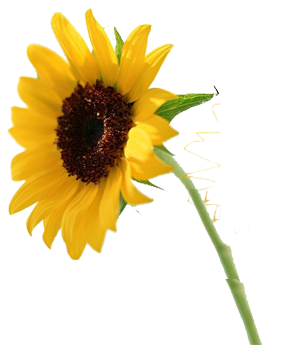
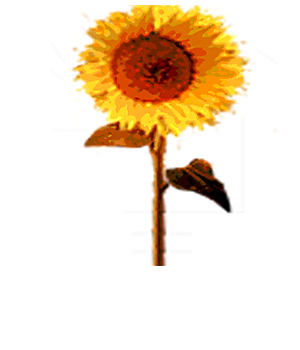
correciones finales

diff --git a/css/styles.css b/css/styles.css
@@ -1,3 +1,7 @@
+h1,h3{
+    color: #F42376;
+    text-align: center;
+}
 #body-container{
     width: 800px;
     height: 649px;
@@ -170,7 +174,8 @@ img#placeholder{
 #girasoles,
 #maceteros{
     width: 300px;
-    overflow: hidden;
+    height: 200px;
+    overflow: scroll;
     background: #FFF;
     border: 3px solid #FF187A;
 }
@@ -219,8 +224,34 @@ img#placeholder{
     margin: 0 auto;
     background: #FFF;
 }
+#gallery-inscritos ul li{
+    list-style: none;
+    text-align: center;
+}
 #gallery-inscritos a{
     color: #000;
     font-weight: lighter;
     text-decoration: none;
+}
+#detalle-florero{
+    width: 600px;
+    height: 600px;
+    margin: 0 auto;
+    background: #FFF;
+    position: relative;
+    top: 25px;
+}
+#datos-aviso-bottom{
+    text-align: center;
+}
+ul.gal-items{
+    overflow: hidden;
+}
+ul.gal-items li{
+    list-style: none;
+    text-align: center;
+    width: 100px;
+    height: 160px;
+    padding: 10px;
+    float: left;
 }

diff --git a/application/views/galeria.php b/application/views/galeria.php
@@ -1,5 +1,6 @@
       <div id="landing-galeria">
           <div id="gallery-inscritos">
+            <h3>Vota por tu florero favorito!</h3>
             <?php
               $galeria = array();
               foreach ($result as $row)
@@ -19,6 +20,7 @@
               $count = 1;
               $counttab = 1;
               //shuffle($galeria);
+              //echo sizeof($galeria);
               ?>
               <ul>
                   <?php for($i=0;$i<sizeof($galeria)/6;$i++){ ?>
@@ -32,7 +34,7 @@
                       echo '<div id="tabs-'. $counttab .'" class="tabsx"><ul class="gal-items">';
                   }
                   echo '<li>';
-                  echo '<a href="tab_concurso.php?action=inscrito&id='.$galeria[$i]['id'].'">';
+                  echo '<a href="detalle?action=inscrito&id='.$galeria[$i]['id'].'&fid_participante='.$galeria[$i]['fid'].'">';
                   /*if (file_exists("uploads/".$galeria[$i]['uid']."/galeria_".$galeria[$i]['aviso'])){
                       echo '<img src="uploads/'.$galeria[$i]['uid'].'/galeria_'.$galeria[$i]['aviso'].'"/><br/>';
                   }else{
@@ -41,7 +43,7 @@
                   echo '<img src="uploads/' . $galeria[$i]['fid'] . '/florero-final.jpg" width="110" height="110"/><br/>';
                   echo '</a>';
                   echo '
-                              <b><a href="detalle?action=inscrito&id='.$galeria[$i]['id'].'">'.$galeria[$i]['nombre'].'<br/>'.$galeria[$i]['votos'].' Votos</a></b>
+                              <b><a href="detalle?action=inscrito&id='.$galeria[$i]['id'].'&fid_participante='.$galeria[$i]['fid'].'">'.$galeria[$i]['nombre'].'<br/>'.$galeria[$i]['votos'].' Votos</a></b>
                       </li>
                       ';
                   if($count==6){

diff --git a/application/views/detalle.php b/application/views/detalle.php
@@ -26,6 +26,7 @@
             $votos = $row['votos'];
           }
 	?>
+        <div id="detalle-florero">
               <div id="datos-aviso">
                 <div id="informacion">
                   <h1>Florero de <?php echo $nombre;?></h1>
@@ -39,17 +40,20 @@
               </div>
               <div id="datos-aviso-bottom">
                       <div id="informacion">
-                      <h1><?php echo $nombre ?></h1>
+                      <h2><?php echo $nombre ?></h2>
                       <h2><?php echo $votos ?> Votos</h2>
                       </div>
                       <br>
                       <div id="botones">
                       <form name="votar-frm" method="GET" action="detalle">
                               <input type="hidden" name="action" value="inscrito"/>
-                              <input type="hidden" name="id" value="<?php echo $fid_participante; ?>"/>
+                              <input type="hidden" name="id" value="<?php echo $uid; ?>"/>
+                              <input type="hidden" name="fid_participante" value="<?php echo $fid_participante; ?>"/>
                               <input type="hidden" name="task" value="votar"/>
                               <input type="image" src="img/btn_votar.png"/>
+                              <a href="galeria"><img src="img/btn_regresar.png"/></a>
                       </form>
+                      
                       <div id="compartir">
                         Compartir:<br>
 
@@ -70,3 +74,4 @@
             </div>
           </div>
         </div>
+      </div>

diff --git a/application/controllers/detalle.php b/application/controllers/detalle.php
@@ -38,17 +38,18 @@ class Detalle extends CI_Controller {
 	public function index()
 	{
 		$this->load->model('insertar');
-		
 		$form_data = $this->input->get();
+		$id = $this->input->get("id");
+		$participante_fid = $this->input->get("fid_participante");
+		
 		if($this->input->get("task") == 'votar'){
-			$id = $this->input->get("id");
-			$result_voto = $this->insertar->votar($id,$this->fb_me['id']);
+			$result_voto = $this->insertar->votar($participante_fid,$this->fb_me['id']);
 		}
 		//$rosas = $this->input->post("rosas");
 
 		
 		
-		$result = $this->insertar->getUser($this->fb_me['id']);
+		$result = $this->insertar->getUser($participante_fid);
 		$content_data['result'] = $result;
 		
 		if (isset($this->request_result))

diff --git a/application/models/insertar.php b/application/models/insertar.php
@@ -11,8 +11,8 @@ class Insertar extends CI_Model{
         $direccion = $_POST['direccion'];
         //$foto = null;
         
-        $this->db->query("INSERT INTO `inscripcion`(`fid`, `nombre`, `email`, `ci`, `ciudad`, `telefono`, `direccion`, `foto`)
-                         VALUES('$fid','$nombre','$email','$ci','$ciudad','$telefono','$direccion',null)");
+        $this->db->query("INSERT INTO `inscripcion`(`fid`, `nombre`, `email`, `ci`, `ciudad`, `telefono`, `direccion`, `votos`)
+                         VALUES('$fid','$nombre','$email','$ci','$ciudad','$telefono','$direccion',0)");
        //$this->db->set($data);
        //$this->db->insert('inscripcion');
        //$this->db->insert_id();

diff --git a/application/controllers/instrucciones.php b/application/controllers/instrucciones.php
@@ -19,9 +19,13 @@ class Instrucciones extends CI_Controller{
 	}
 	function check_exists($str, $table, $column){
 		$this->load->database();
-		$query = $this->db->query("SELECT COUNT(*) AS count FROM $table WHERE $column = $str");
-		$row = $query->row();
-		if($row){
+		$query = $this->db->query("SELECT COUNT(*) FROM $table WHERE $column = $str");
+		$existe = $query->row();
+		foreach ($existe as $row)
+		{
+		  $existe = $row;
+		}
+		if($existe == 1){
 			$login_url = 'florero';
 			return $login_url;
 			//$this->form_validation->set_message('error','Ya estas inscrito anteriormente');

diff --git a/application/models/generar.php b/application/models/generar.php
@@ -30,7 +30,7 @@ class Generar extends CI_Model{
 	  ' -gravity NorthWest -draw "image Over   0,0 0,0 \''. $girasoles .'\'" ' .
 	  ' -gravity NorthWest -draw "image Over   0,0 0,0 \''. $lirios .'\'" ' .
           ' -gravity NorthWest -draw "image Over   0,0 0,0 \''. $maceteros .'\'" ' .
-	  '"'.$filename.'"'; 
+	  ' -fill white -opaque none "'.$filename.'"'; 
 	
 	@exec($command);
 	@unlink($file);

diff --git a/application/views/index.php b/application/views/index.php
@@ -1,6 +1,8 @@
-      <?php //echo $me['id'];
+
+      <?php
+        //echo $me['id'];
         //foreach ($me as $key => $value) {
-          //echo 'ARRAY FIELD - '. $key . ': ' . $value;
+        //  echo 'ARRAY FIELD - '. $key . ': ' . $value;
         //}
       ?><div id="landing-home">
         <div id="button-participar">

diff --git a/application/views/imagen.php b/application/views/imagen.php
@@ -1,6 +1,7 @@
       <div id="landing-imagen">
-        <h3>Este es tu florero!</h3>
         <div id="imagen-final">
+          <h3>Este es tu florero!</h3>
+          <br>
           <img src="uploads/<?php echo $fid;?>/florero-final.jpg"/>
         </div>
         <div id="buttons-bottom">

diff --git a/application/views/header.php b/application/views/header.php
@@ -76,7 +76,7 @@
 
               FB.ui(obj, callback);
       }
-          
+
       var callback = function(data) {
               if (data['order_id']) {
                       // Success, we received the order_id. The order states can be

diff --git a/application/controllers/welcome.php b/application/controllers/welcome.php
@@ -36,7 +36,8 @@ class Welcome extends CI_Controller {
 	}
 	
 	public function index()
-	{		
+	{
+		//echo $this->is_fan;
 		if (isset($this->request_result))
 		{
 			$content_data['error'] = $this->request_result;
